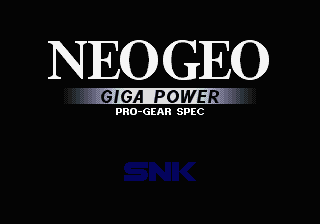
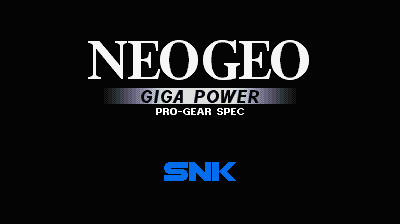
Screenshots in widescreen

Changed region(s): [[0.1562, 0.1562, 0.8438, 0.5312], [0.375, 0.7188, 0.625, 0.8125]]

diff --git a/README.md b/README.md
@@ -11,6 +11,17 @@ This is the first step of a bigger plan: bring the whole KOF series, from '94 to
   <img src="docs/screenshots/select-wide.png" alt="The character select in widescreen" width="600">
 </p>
 
+## Screenshots
+
+All real output from the recompiled build in widescreen (`--widescreen --headless --screenshot`). The stone behind the menus uses margin art from `assets/` ([below](#widescreen-art)).
+
+| | |
+|---|---|
+| ![NEOGEO boot](docs/screenshots/bios.png) | ![Intro](docs/screenshots/intro.png) |
+| ![Title](docs/screenshots/title.png) | ![Mode select](docs/screenshots/mode.png) |
+| ![Character select](docs/screenshots/select.png) | ![Order select](docs/screenshots/order.png) |
+| ![Fight](docs/screenshots/fight.png) | ![Fight](docs/screenshots/fight-wide.png) |
+
 ## Why
 
 KOF98 is one of the best fighting games ever made, and it still runs, at best, inside an emulator built for a 4:3 CRT. A static recompilation turns the game into a regular program: it can be changed, fixed and extended like any other code, while every recompiled block is checked against an interpreter so it stays faithful to the original. Widescreen was the first thing that needed it.
